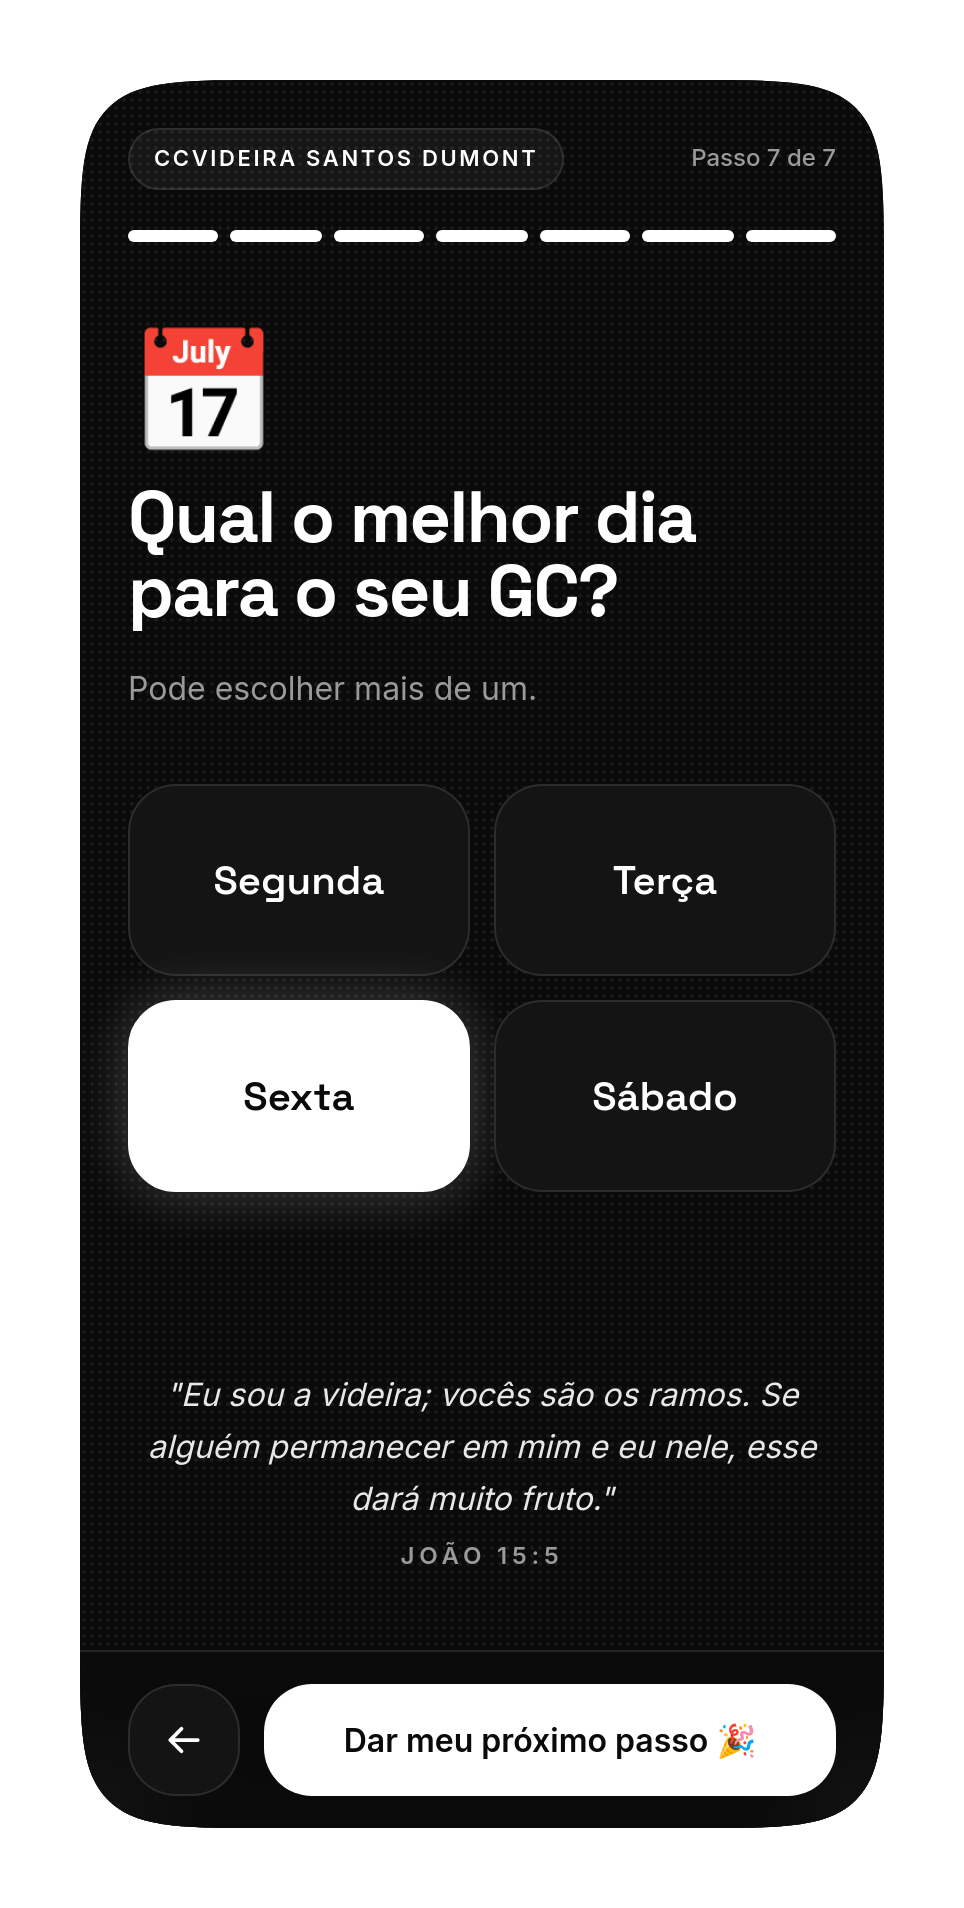
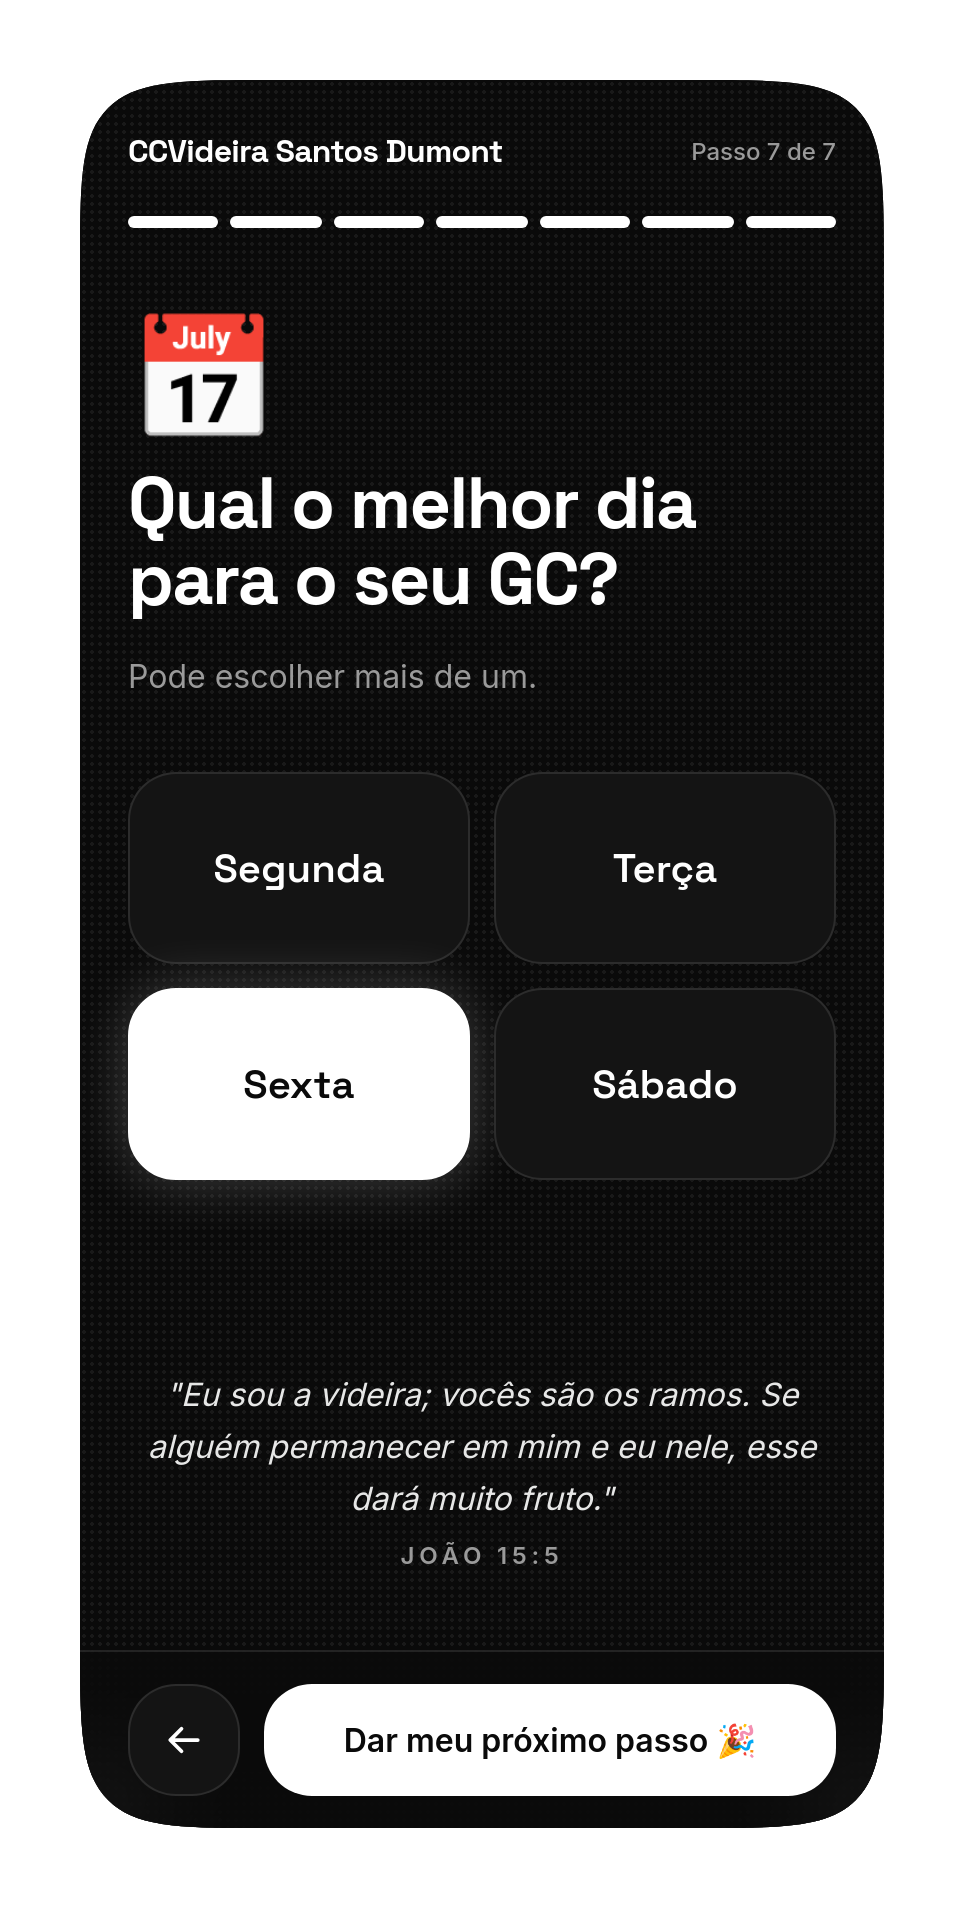
feat: visual reformulado do Sleek
- Cabeçalho do fluxo com o nome "CCVideira Santos Dumont" no lugar da pílula
- Login da Staff com logotipo circular CCVIDEIRA (Krona One)
- Telas e HTML de referência atualizados em design/sleek

diff --git a/design/sleek/html/09-login-staff.html b/design/sleek/html/09-login-staff.html
@@ -283,17 +283,15 @@
       ></div>
       <div class="relative flex flex-1 flex-col justify-center gap-8">
         <div class="flex flex-col items-center gap-4 text-center">
-          <span
-            class="inline-flex size-16 items-center justify-center rounded-2xl border border-white/10 bg-card"
-            ><iconify-icon icon="ph:grains-bold" width="32" height="32"></iconify-icon
-          ></span>
-          <div class="flex flex-col gap-1">
-            <span class="font-heading text-lg font-bold tracking-tight text-foreground"
-              >CCVideira Santos Dumont</span
-            ><span class="text-xs font-semibold tracking-[0.2em] text-muted-foreground uppercase"
-              >Igreja</span
-            >
-          </div>
+          <span class="flex size-44 items-center justify-center rounded-full bg-white"
+            ><span
+              style="font-family: &#39;Krona One&#39;, sans-serif; letter-spacing: -0.02em"
+              class="text-xl leading-none text-background"
+              >CCVIDEIRA</span
+            ></span
+          ><span class="font-heading text-lg font-bold tracking-tight text-foreground"
+            >CCVideira Santos Dumont</span
+          >
         </div>
         <div class="flex flex-col gap-2 text-center">
           <h1
@@ -309,9 +307,9 @@
             <div class="relative">
               <iconify-icon
                 icon="ph:lock-simple-bold"
-                class="pointer-events-none absolute left-5 top-1/2 -translate-y-1/2 text-muted-foreground"
                 width="20"
                 height="20"
+                class="pointer-events-none absolute left-5 top-1/2 -translate-y-1/2 text-muted-foreground"
               ></iconify-icon
               ><input
                 id="senha"

diff --git a/design/sleek/html/03-contato.html b/design/sleek/html/03-contato.html
@@ -283,9 +283,8 @@
       ></div>
       <div class="relative flex flex-col gap-5">
         <div class="flex items-center justify-between">
-          <span
-            class="inline-flex items-center rounded-full border border-white/10 bg-white/5 px-3 py-1.5 text-[11px] font-semibold tracking-[0.12em] text-foreground"
-            >CCVIDEIRA SANTOS DUMONT</span
+          <span class="font-heading text-base font-bold tracking-tight text-foreground"
+            >CCVideira Santos Dumont</span
           ><span class="text-xs font-medium text-muted-foreground">Passo 3 de 7</span>
         </div>
         <div
@@ -316,9 +315,9 @@
               <div class="relative">
                 <iconify-icon
                   icon="ph:whatsapp-logo-bold"
-                  class="pointer-events-none absolute left-5 top-1/2 -translate-y-1/2 text-muted-foreground"
                   width="24"
                   height="24"
+                  class="pointer-events-none absolute left-5 top-1/2 -translate-y-1/2 text-muted-foreground"
                 ></iconify-icon
                 ><input
                   id="whatsapp"
@@ -334,9 +333,9 @@
               <div class="relative">
                 <iconify-icon
                   icon="ph:envelope-simple-bold"
-                  class="pointer-events-none absolute left-5 top-1/2 -translate-y-1/2 text-muted-foreground"
                   width="24"
                   height="24"
+                  class="pointer-events-none absolute left-5 top-1/2 -translate-y-1/2 text-muted-foreground"
                 ></iconify-icon
                 ><input
                   id="email"

diff --git a/src/routes/admin.tsx b/src/routes/admin.tsx
@@ -202,17 +202,14 @@ function Login({ onEntrar }: { onEntrar: () => Promise<void> }) {
     <div className="relative mx-auto flex min-h-screen w-full max-w-md flex-col px-6 pb-10 pt-10">
       <div className="flex flex-1 flex-col justify-center gap-8">
         <div className="flex flex-col items-center gap-4 text-center">
-          <span className="inline-flex size-16 items-center justify-center rounded-2xl border border-white/10 bg-card">
-            <Icone nome="grains-bold" size={32} />
+          <span className="flex size-44 items-center justify-center rounded-full bg-white">
+            <span className="font-logo text-xl leading-none tracking-[-0.02em] text-background">
+              CCVIDEIRA
+            </span>
           </span>
-          <div className="flex flex-col gap-1">
-            <span className="font-heading text-lg font-bold tracking-tight">
-              CCVideira Santos Dumont
-            </span>
-            <span className="text-xs font-semibold uppercase tracking-[0.2em] text-muted-foreground">
-              Igreja
-            </span>
-          </div>
+          <span className="font-heading text-lg font-bold tracking-tight">
+            CCVideira Santos Dumont
+          </span>
         </div>
         <div className="flex flex-col gap-2 text-center">
           <h1 className="font-heading text-[36px] font-bold leading-[1.05] tracking-tight">

diff --git a/design/sleek/html/06-primeira-vez.html b/design/sleek/html/06-primeira-vez.html
@@ -283,9 +283,8 @@
       ></div>
       <div class="relative flex flex-col gap-5">
         <div class="flex items-center justify-between">
-          <span
-            class="inline-flex items-center rounded-full border border-white/10 bg-white/5 px-3 py-1.5 text-[11px] font-semibold tracking-[0.12em] text-foreground"
-            >CCVIDEIRA SANTOS DUMONT</span
+          <span class="font-heading text-base font-bold tracking-tight text-foreground"
+            >CCVideira Santos Dumont</span
           ><span class="text-xs font-medium text-muted-foreground">Passo 6 de 7</span>
         </div>
         <div
@@ -331,9 +330,9 @@
             <span class="flex items-center gap-4"
               ><iconify-icon
                 icon="ph:arrows-clockwise-bold"
-                class="text-muted-foreground"
                 width="24"
                 height="24"
+                class="text-muted-foreground"
               ></iconify-icon
               >Não, já vim antes</span
             ><span class="size-6 rounded-full border border-white/20"></span>

diff --git a/src/routes/index.tsx b/src/routes/index.tsx
@@ -239,8 +239,8 @@ function Index() {
       >
         <div className="flex flex-col gap-5">
           <div className="flex items-center justify-between">
-            <span className="inline-flex items-center rounded-full border border-white/10 bg-white/5 px-3 py-1.5 text-[11px] font-semibold tracking-[0.12em] text-foreground">
-              CCVIDEIRA SANTOS DUMONT
+            <span className="font-heading text-base font-bold tracking-tight text-foreground">
+              CCVideira Santos Dumont
             </span>
             <span className="text-xs font-medium text-muted-foreground" aria-live="polite">
               {done ? "Concluído" : `Passo ${etapa + 1} de ${etapas.length}`}

diff --git a/design/sleek/html/01-bem-vindo.html b/design/sleek/html/01-bem-vindo.html
@@ -283,9 +283,8 @@
       ></div>
       <div class="relative flex flex-col gap-5">
         <div class="flex items-center justify-between">
-          <span
-            class="inline-flex items-center rounded-full border border-white/10 bg-white/5 px-3 py-1.5 text-[11px] font-semibold tracking-[0.12em] text-foreground"
-            >CCVIDEIRA SANTOS DUMONT</span
+          <span class="font-heading text-base font-bold tracking-tight text-foreground"
+            >CCVideira Santos Dumont</span
           ><span class="text-xs font-medium text-muted-foreground">Passo 1 de 7</span>
         </div>
         <div

diff --git a/design/sleek/html/02-nome.html b/design/sleek/html/02-nome.html
@@ -283,9 +283,8 @@
       ></div>
       <div class="relative flex flex-col gap-5">
         <div class="flex items-center justify-between">
-          <span
-            class="inline-flex items-center rounded-full border border-white/10 bg-white/5 px-3 py-1.5 text-[11px] font-semibold tracking-[0.12em] text-foreground"
-            >CCVIDEIRA SANTOS DUMONT</span
+          <span class="font-heading text-base font-bold tracking-tight text-foreground"
+            >CCVideira Santos Dumont</span
           ><span class="text-xs font-medium text-muted-foreground">Passo 2 de 7</span>
         </div>
         <div

diff --git a/design/sleek/html/04-sobre.html b/design/sleek/html/04-sobre.html
@@ -283,9 +283,8 @@
       ></div>
       <div class="relative flex flex-col gap-5">
         <div class="flex items-center justify-between">
-          <span
-            class="inline-flex items-center rounded-full border border-white/10 bg-white/5 px-3 py-1.5 text-[11px] font-semibold tracking-[0.12em] text-foreground"
-            >CCVIDEIRA SANTOS DUMONT</span
+          <span class="font-heading text-base font-bold tracking-tight text-foreground"
+            >CCVideira Santos Dumont</span
           ><span class="text-xs font-medium text-muted-foreground">Passo 4 de 7</span>
         </div>
         <div

diff --git a/design/sleek/html/05-local.html b/design/sleek/html/05-local.html
@@ -283,9 +283,8 @@
       ></div>
       <div class="relative flex flex-col gap-5">
         <div class="flex items-center justify-between">
-          <span
-            class="inline-flex items-center rounded-full border border-white/10 bg-white/5 px-3 py-1.5 text-[11px] font-semibold tracking-[0.12em] text-foreground"
-            >CCVIDEIRA SANTOS DUMONT</span
+          <span class="font-heading text-base font-bold tracking-tight text-foreground"
+            >CCVideira Santos Dumont</span
           ><span class="text-xs font-medium text-muted-foreground">Passo 5 de 7</span>
         </div>
         <div

diff --git a/design/sleek/html/07-dias-gc.html b/design/sleek/html/07-dias-gc.html
@@ -283,9 +283,8 @@
       ></div>
       <div class="relative flex flex-col gap-5">
         <div class="flex items-center justify-between">
-          <span
-            class="inline-flex items-center rounded-full border border-white/10 bg-white/5 px-3 py-1.5 text-[11px] font-semibold tracking-[0.12em] text-foreground"
-            >CCVIDEIRA SANTOS DUMONT</span
+          <span class="font-heading text-base font-bold tracking-tight text-foreground"
+            >CCVideira Santos Dumont</span
           ><span class="text-xs font-medium text-muted-foreground">Passo 7 de 7</span>
         </div>
         <div

diff --git a/design/sleek/html/08-celebracao.html b/design/sleek/html/08-celebracao.html
@@ -306,9 +306,8 @@
       </div>
       <div class="relative flex flex-col gap-5">
         <div class="flex items-center justify-between">
-          <span
-            class="inline-flex items-center rounded-full border border-white/10 bg-white/5 px-3 py-1.5 text-[11px] font-semibold tracking-[0.12em] text-foreground"
-            >CCVIDEIRA SANTOS DUMONT</span
+          <span class="font-heading text-base font-bold tracking-tight text-foreground"
+            >CCVideira Santos Dumont</span
           ><span class="text-xs font-medium text-muted-foreground">Concluído</span>
         </div>
         <div

diff --git a/src/routes/__root.tsx b/src/routes/__root.tsx
@@ -105,7 +105,7 @@ export const Route = createRootRouteWithContext<{ queryClient: QueryClient }>()(
       { rel: "preconnect", href: "https://fonts.gstatic.com", crossOrigin: "anonymous" },
       {
         rel: "stylesheet",
-        href: "https://fonts.googleapis.com/css2?family=Inter:wght@400;500;600&family=Space+Grotesk:wght@500;600;700&display=swap",
+        href: "https://fonts.googleapis.com/css2?family=Inter:wght@400;500;600&family=Krona+One&family=Space+Grotesk:wght@500;600;700&display=swap",
       },
       {
         rel: "stylesheet",
